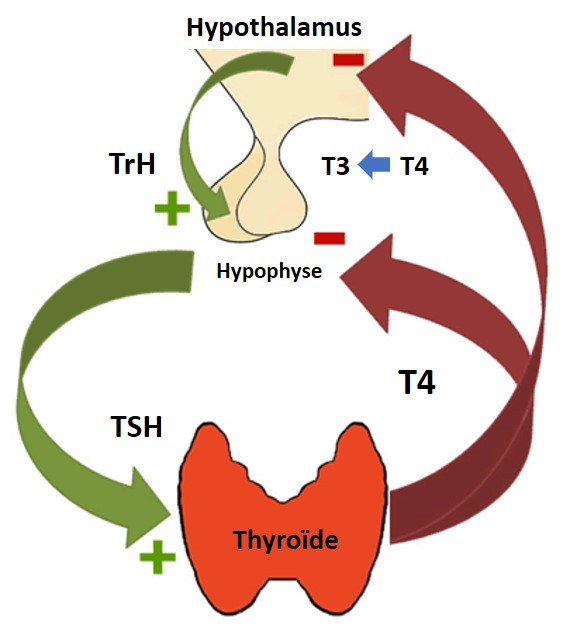
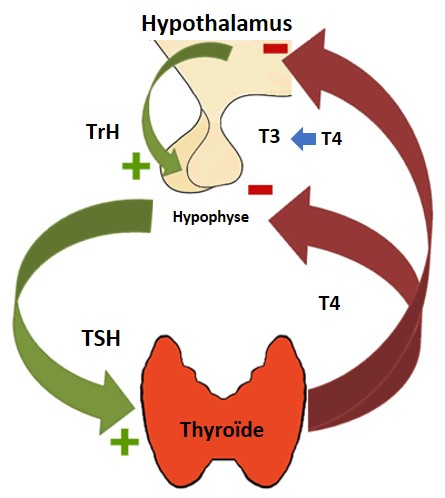
changed format photo attached to analyses

diff --git a/db/seeds.rb b/db/seeds.rb
@@ -92,7 +92,7 @@ puts "Creating analyses..."
 
 hematies = Analysis.create!(name: "Hématies", description: "Les hématies ou globules rouges sont des cellules sans noyaux qui se présentent sous la forme de petits disques biconcaves. Ils contiennent une solution d'hémoglobine(Hb): c'est ce pigment respiratoire qui transporte l'oxygène des poumons vers les tissus et est responsable de la fonction de l'hématie. /n On évalue leur nombre, par exemple pour détecter une polyglobulie (taux d’hématies trop élevé) ou une anémie (taux d'hématies trop bas). /n On étudie aussi plusieurs autres caractéristiques des globules rouges : Le volume globulaire moyen (VGM) est un indicateur de la taille des globules rouges, L’hématocrite est le pourcentage du volume sanguin occupé par les hématies. Il diminue en cas d’anémie, et augmente par exemple lors d’un épisode de déshydratation et Le taux de réticulocytes correspond au nombre de jeunes globules rouges nouvellement produits par la moelle osseuse. Il donne donc des indications sur le fonctionnement de cette dernière.", min_value: 4.0, max_value: 5.2, category: hematologie, unit: "t/l")
 
-file_hematies = URI.open('https://res.cloudinary.com/drj1uqyhz/image/upload/v1599043816/p1cyeur5gqg19amiuipz.jpg')
+file_hematies = URI.open('https://res.cloudinary.com/drj1uqyhz/image/upload/v1599050104/cimnj761e4l6jvu4eoll.jpg')
 hematies.photo.attach(io: file_hematies, filename: 'hematies.jpg', content_type: 'image/jpg')
 
 hemoglobine = Analysis.create!(name: "Hémoglobine", description: "Composant des globules rouges, qui donne la couleur rouge au sang et qui, à l’aide du fer, permet de fixer successivement l’oxygène et le gaz carbonique.", min_value: 11.5, max_value: 15.0, category: hematologie, unit: "g/dl")
@@ -198,10 +198,8 @@ hepatitec = Analysis.create!(name: "Hépatite C", description: "L’hépatite C 
 
 # hormonologie
 
-
-
 tsh = Analysis.create!(name: "TSH (Thyreostimuline)", description: "La TSH ou thyréostimuline est une hormone produite par la partie antérieure de l' hypophyse (une glande située à la base du crâne). Elle intervient dans la boucle d'une série d'hormones qui régulent le niveau de sécrétion des hormones thyroïdiennes ( T3 et  T4) par la glande  thyroïde (située à la face antérieure du cou), en fonction des besoins corporels. Le dosage de la TSH se fait en général dans le cadre d'une exploration biologique à la recherche d'altérations de la fonction thyroïdienne (  hypothyroïdie, hyperthyroïdie ou autres  dysthyroïdies comme les goitres ou les  cancers de la thyroïde), ou encore pour surveiller la réponse au traitement d'une de ces maladies. La production de cette hormone est soumise à une régulation qui fait intervenir différents facteurs dont une autre hormone, la TRH (Thyrotropin Releasing Factor) ainsi que les hormones thyroïdiennes elles-mêmes (T3 et T4). Ces hormones thyroïdiennes ont un rôle de chef d’orchestre de l’organisme : régulant de nombreuses fonctions de base (digestion, température, fatigue, fertilité…). Un niveau élevé de TSH va entraîner une production excessive d’hormones thyroïdiennes (hyperthyroïdie), un niveau bas de TSH va entraîner une production insuffisance d’hormones thyroïdiennes (hypothyroïdie).", min_value: 0.35, max_value: 4.94, category: hormonologie, unit: "mui/l")
-file_tsh = URI.open('https://res.cloudinary.com/drj1uqyhz/image/upload/v1599041077/zydtm0gt8uhahvbhs51r.jpg')
+file_tsh = URI.open('https://res.cloudinary.com/drj1uqyhz/image/upload/v1599050545/xl1p90iwog3vaksimihx.jpg')
 tsh.photo.attach(io: file_tsh, filename: 'tsh.jpg', content_type: 'image/jpg')
 
 puts 'Finished creating analyses'
@@ -248,6 +246,7 @@ UserAnalysis.create!(name: "C.C.M.H.", checkup: checkup_3, analysis: ccmh, value
 UserAnalysis.create!(name: "Plaquettes", checkup: checkup_3, analysis: plaquettes, value: 180.0)
 UserAnalysis.create!(name: "Glycémie à jeun", checkup: checkup_3, analysis: glycemie, value: 1.20)
 UserAnalysis.create!(name: "Cholestérol total", checkup: checkup_3, analysis: cholesterol, value: 2.30)
+UserAnalysis.create!(name: "TSH (Thyreostimuline)", checkup: checkup_3, analysis: tsh, value: 2.30)
 
 
 puts 'Finished creating user_analyses'
